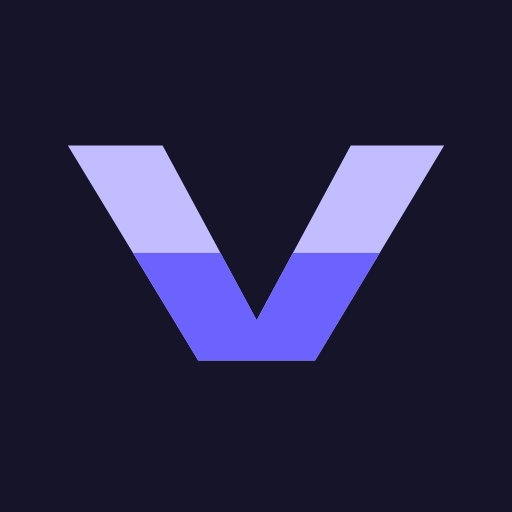
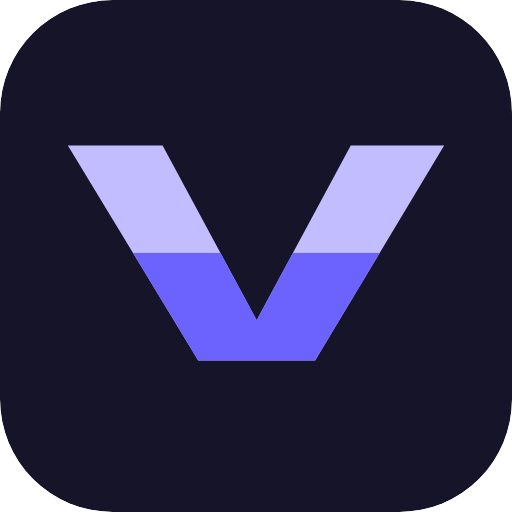
v4.1

diff --git a/index.html b/index.html
@@ -533,9 +533,15 @@ a { color: var(--accent); text-decoration: none; }
 .logo-text { display: flex; flex-direction: column; align-items: flex-start; text-align: left; gap: 4px; min-width: 0; }
 .logo-word {
   font-family: 'Syne', ui-sans-serif, sans-serif;
-  font-size: 1.9rem; font-weight: 800; letter-spacing: -.035em;
+  /* "VocaStride" 1.9rem'de 256px sürüyor; dar telefonlarda kırpılıyordu.
+     Kullanılabilir genişlik = ekran − 56px logo − 16px boşluk − 70px kenar
+     boşlukları. Metnin en/boy oranı ölçüldü: 1px font ≈ 8.42px genişlik,
+     yani font = kullanılabilir / 8.42. Tavan eski boyut (1.9rem). */
+  font-size: min(1.9rem, calc((100vw - 146px) / 8.42));
+  font-weight: 800; letter-spacing: -.035em;
   color: var(--text-1);
   line-height: 1.05;
+  white-space: nowrap;
 }
 @media (min-width: 768px) { .logo-word { font-size: 2.15rem; } }
 .logo-sub { font-size: .78rem; color: var(--text-2); font-weight: 400; line-height: 1.3; }
@@ -1086,8 +1092,14 @@ a { color: var(--accent); text-decoration: none; }
 .set-row .set-lbl { font-weight: 700; font-size: .88rem; }
 .set-row .set-desc { font-size: .72rem; color: var(--text-3); margin-top: 1px; }
 .accent-dots { display: flex; gap: 8px; }
-.accent-dots button { width: 30px; height: 30px; border-radius: 50%; border: 2px solid transparent; position: relative; transition: transform .12s; }
-.accent-dots button:hover { transform: scale(1.1); }
+.accent-dots button {
+  width: 30px; height: 30px; border-radius: 50%; border: 2px solid transparent;
+  position: relative; cursor: pointer;
+  -webkit-tap-highlight-color: transparent;
+  transition: transform .4s var(--ease-spring), box-shadow .2s var(--ease-out);
+}
+@media (hover: hover) { .accent-dots button:hover { transform: scale(1.1); } }
+.accent-dots button:active { transform: scale(.9); transition-duration: .09s; }
 .accent-dots button.sel { border-color: var(--text-1); box-shadow: 0 0 0 3px var(--ring); }
 
 /* ---- FX ---- */
@@ -1284,7 +1296,17 @@ a { color: var(--accent); text-decoration: none; }
 .onb .goal-pick button {
   flex: 1; padding: 14px 6px; border-radius: 16px; border: 1.5px solid var(--border);
   background: var(--surface-2); color: var(--text-1);
+  cursor: pointer;
+  -webkit-tap-highlight-color: transparent;
+  /* Sitenin geri kalanıyla aynı V5 dokunma dili. Eskiden "transition: all"
+     vardı: box-shadow/padding gibi her şeyi de animasyona sokup basışı
+     hantallaştırıyordu. Yalnızca ilgili özellikler geçişli. */
+  transition: transform .4s var(--ease-spring),
+              border-color .2s var(--ease-out),
+              background-color .2s var(--ease-out),
+              box-shadow .2s var(--ease-out);
 }
+.onb .goal-pick button:active { transform: scale(.96); transition-duration: .09s; }
 .onb .goal-pick button .g-num { display: block; font-size: 1.3rem; font-weight: 800; }
 .onb .goal-pick button .g-lbl { font-size: .68rem; color: var(--text-3); font-weight: 700; }
 .onb .goal-pick button.sel { border-color: var(--accent); background: var(--accent-soft); box-shadow: 0 0 0 3px var(--ring); }
@@ -1634,7 +1656,11 @@ VS.brand = (function () {
 
   // Ölçülmüş dönüşümler (bkz. optik merkezleme notu)
   var ANY  = { s: 0.065625, tx: 11.938, ty: 70.400, y0: 28.400, y1: 70.400 };
-  var MASK = { s: 0.058594, tx: 16.016, ty: 68.150, y0: 31.212, y1: 68.150 };
+  // Maskable ikon: Android/Samsung maskeyi kırptığı için V daha küçük durmalı.
+  // Eski değerde V tuvalin %66'sını kaplıyordu ve maskelenince "zoomlanmış"
+  // görünüyordu. %54'e çekildi; en uzak köşe merkeze 31.1 birim (güvenli
+  // yarıçap 40), yani her maske şeklinde rahat kalıyor.
+  var MASK = { s: 0.048214, tx: 22.036, ty: 65.429, y0: 34.571, y1: 65.429 };
 
   var PAL = {
     indigo:    { ink: '#161428', acc: '#6C63FF', tone: '#C1BDFF' },
@@ -1741,6 +1767,8 @@ VS.brand = (function () {
       });
 
       // 3) Apple touch icon (PNG şart)
+      // apple-touch-icon: iOS köşeleri KENDİ yuvarlar ve saydam pikselleri
+      // SİYAHA çevirir. Bu yüzden burada radius verilmez — kare/opak kalır.
       toPNG(180, {}).then(function (url) {
         if (!url) return;
         var a = document.querySelector('link[rel="apple-touch-icon"]');
@@ -1764,8 +1792,8 @@ VS.brand = (function () {
         var base = new URL(link.dataset.src, location.href);
         Promise.all([
           fetch(base.href).then(function (res) { return res.json(); }),
-          toPNG(192, {}),
-          toPNG(512, {}),
+          toPNG(192, { radius: 22 }),
+          toPNG(512, { radius: 22 }),
           toPNG(192, { maskable: true }),
           toPNG(512, { maskable: true })
         ]).then(function (r) {

diff --git a/sw.js b/sw.js
@@ -2,7 +2,7 @@
    VocaStride — Service Worker (sw.js)
    App-shell + varlık önbelleği — tam çevrimdışı
    ============================================================ */
-const CACHE = 'vocastride-v10';
+const CACHE = 'vocastride-v11';
 const ASSETS = [
   './',
   './index.html',
